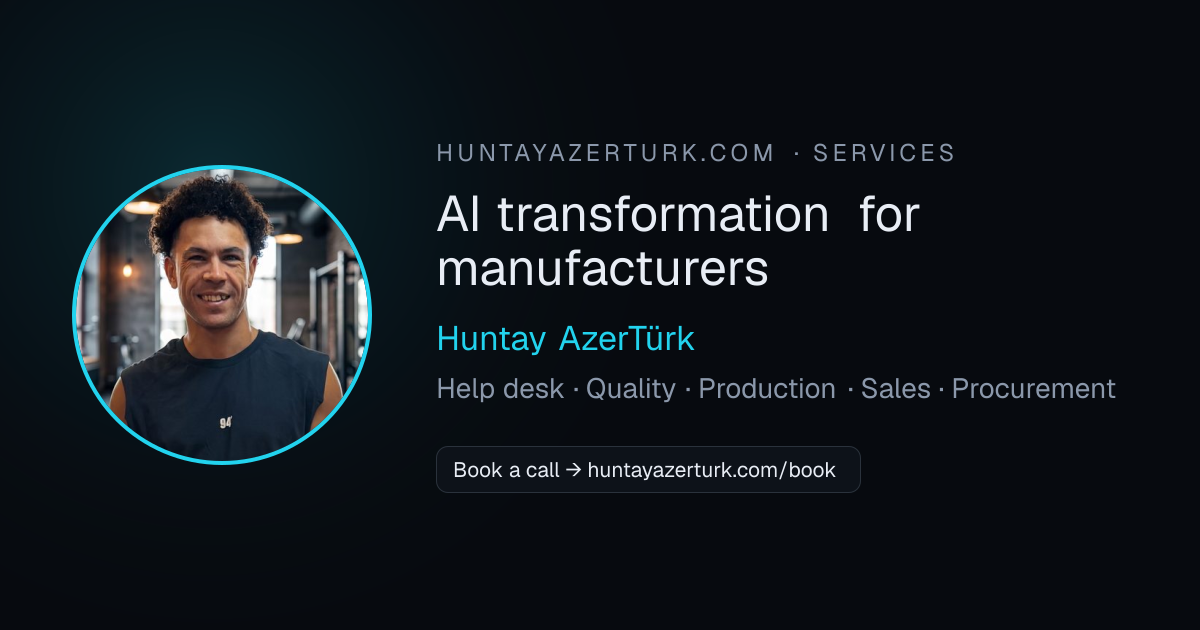
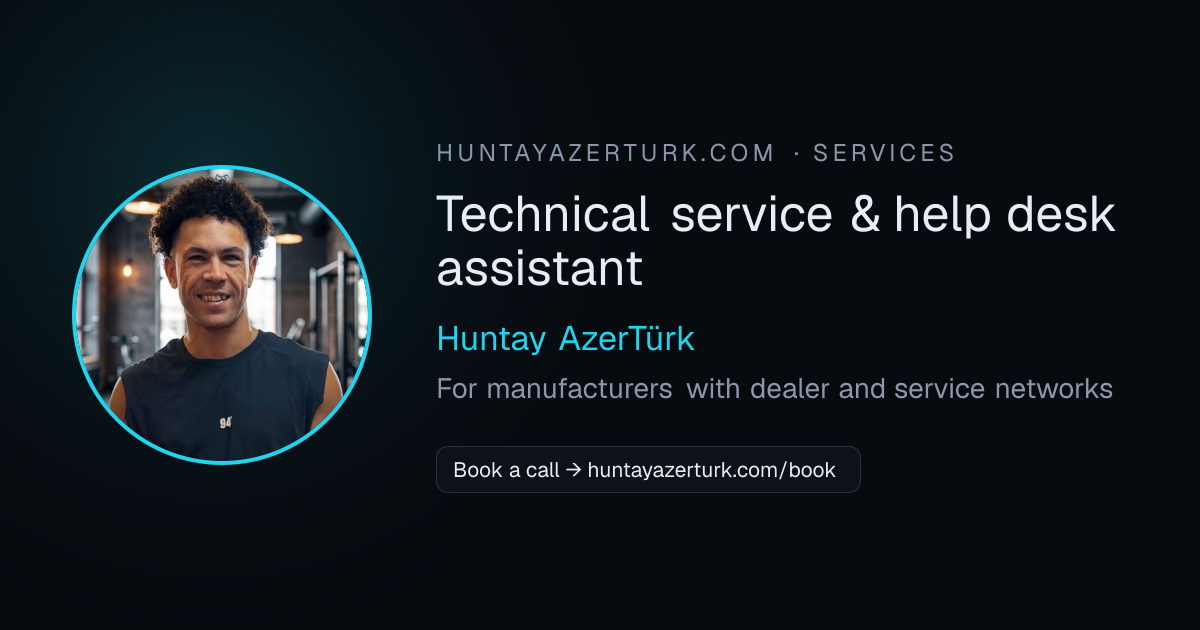
Oranlar her yerde tek set: %30–70, %15–40, %10–30
Huntay: sitede ve başka yerlerde oranlar aynı olmalı; esas set vakadaki: help desk iş yükü ve yanıt
süreleri %30–70, müşteri memnuniyeti %15–40, maliyet ve satışlar %10–30. "%40–70 talep çözüm süresi"
her yerden kalktı: giriş metni, meta açıklama, rakam kutuları (dördüncü kutu: maliyet ve satış %10–30),
"Nasıl çalışıyoruz" kanıt satırı, Hakkımda, help desk birimi, hizmet SSS'si, deneyim kaydı.
MCP get_profile öne çıkanları (yalnız metin; "3 mühendisle 100.000 kullanıcı" da çıktı) ve paylaşım
görselleri (ana sayfa çipleri, hizmetler kartı tek odağa göre) yeniden üretildi.

Claude-Session: https://claude.ai/code/session_01MxbAo2gi8kHvnns2pE8MrG

Changed region(s): [[0.37, 0.3016, 0.925, 0.4524], [0.37, 0.6032, 0.925, 0.6333]]

diff --git a/data/profile.ts b/data/profile.ts
@@ -6,8 +6,8 @@ import type { Localized } from "./types";
  */
 export const heroLead: Localized = {
   // 11 Kasım 2026: LinkedIn "Hakkında" ile aynı yapı — kanıt ayrı cümle, sonra uzmanlık; bulut/IoT rakamları buradan çıktı (odak dağılmasın).
-  en: "Across different projects, support resolution time dropped by 40–70%. Every engagement is led by me personally: with 13+ years in systems architecture, I turn manufacturers' scattered documentation and service knowledge into stable AI systems, without replacing your ERP or service software.",
-  tr: "Farklı projelerde talep çözüm süresi %40–70 kısaldı. İşi bizzat ben yürütüyorum: 13 yılı aşkın sistem mimarisi deneyimiyle, üreticilerin dağınık doküman ve servis bilgisini ERP ve servis yazılımlarınızı değiştirmeden kararlı yapay zekâ sistemlerine dönüştürüyorum.",
+  en: "Across different projects, help desk workload and response times improved by 30–70%. Every engagement is led by me personally: with 13+ years in systems architecture, I turn manufacturers' scattered documentation and service knowledge into stable AI systems, without replacing your ERP or service software.",
+  tr: "Farklı projelerde help desk iş yükü ve yanıt süreleri %30–70 iyileşti. İşi bizzat ben yürütüyorum: 13 yılı aşkın sistem mimarisi deneyimiyle, üreticilerin dağınık doküman ve servis bilgisini ERP ve servis yazılımlarınızı değiştirmeden kararlı yapay zekâ sistemlerine dönüştürüyorum.",
 };
 
 export const philosophy: Localized = {
@@ -28,8 +28,8 @@ export const aboutSecurity: Localized = {
 
 /** CV — RAG, Dialogflow CX, Meta WhatsApp; LinkedIn özetinde Chatwoot */
 export const aboutAiProject: Localized = {
-  en: "I've built autonomous support systems using Meta WhatsApp, Chatwoot, and Dialogflow CX. By integrating RAG architectures, we cut resolution times for complex technical requests by 40–70% across different projects.",
-  tr: "Meta WhatsApp, Chatwoot ve Dialogflow CX kullanarak otonom destek sistemleri geliştirdim. RAG mimarilerini entegre ederek, karmaşık teknik sorunların çözüm süresini farklı projelerde %40–70 arasında kısalttık.",
+  en: "I've built autonomous support systems using Meta WhatsApp, Chatwoot, and Dialogflow CX. By integrating RAG architectures, we improved help desk workload and response times by 30–70% and customer satisfaction by 15–40% across different projects.",
+  tr: "Meta WhatsApp, Chatwoot ve Dialogflow CX kullanarak otonom destek sistemleri geliştirdim. RAG mimarilerini entegre ederek farklı projelerde help desk iş yükünü ve yanıt sürelerini %30–70, müşteri memnuniyetini %15–40 iyileştirdik.",
 };
 
 export const aboutDiscipline: Localized = {

diff --git a/data/services.ts b/data/services.ts
@@ -9,7 +9,7 @@ import type { FaqItem, ServiceItem, StepItem } from "./types";
  * derinlemesine alt sayfaları (deep-dive). Kaldırılan eski hizmet adresleri ve MCP'nin donmuş slug listesi
  * data/catalog.ts'deki uyumluluk katmanında yeni sayfalara eşlenir — bir hizmeti silerken oraya da bakın.
  *
- * Sayılar (75%, 40–70%, 10.000+ ...) yalnızca sitede zaten yer alan vaka çalışmalarından alınmıştır.
+ * Sayılar (75%, 30–70%, 10.000+ ...) yalnızca sitede zaten yer alan vaka çalışmalarından alınmıştır.
  */
 export const services: ServiceItem[] = [
   /* ------------------------------------------------------------------ */
@@ -163,8 +163,8 @@ export const services: ServiceItem[] = [
           tr: "Yapay zeka ajanı destek ekibimin yerini mi alır?",
         },
         answer: {
-          en: "No. It handles repetitive questions and routes complex or sensitive cases to people with full context. In different projects, this approach cut ticket resolution time by 40–70%.",
-          tr: "Hayır. Tekrarlayan soruları üstlenir, karmaşık veya hassas durumları tüm bağlamıyla insanlara aktarır. Farklı projelerde bu yaklaşım talep çözüm süresini %40–70 arasında kısalttı.",
+          en: "No. It handles repetitive questions and routes complex or sensitive cases to people with full context. In different projects, this approach improved help desk workload and response times by 30–70%.",
+          tr: "Hayır. Tekrarlayan soruları üstlenir, karmaşık veya hassas durumları tüm bağlamıyla insanlara aktarır. Farklı projelerde bu yaklaşımla help desk iş yükü ve yanıt süreleri %30–70 iyileşti.",
         },
       },
       {

diff --git a/lib/og-cards.ts b/lib/og-cards.ts
@@ -29,12 +29,12 @@ const home = {
   en: {
     subtitle: "AI Consultant for Manufacturers",
     tagline: "Starts with the technical service & help desk assistant · Istanbul",
-    chips: ["13+ years", "40–70% faster support resolution", "100,000 users, 3 engineers"],
+    chips: ["30–70% help desk workload & response", "15–40% customer satisfaction", "10–30% costs & sales"],
   },
   tr: {
     subtitle: "Üreticiler için Yapay Zekâ Danışmanı",
     tagline: "Teknik servis ve help desk asistanıyla başlar · İstanbul",
-    chips: ["13+ yıl", "Destek çözümünde %40–70 hız", "3 mühendisle 100.000 kullanıcı"],
+    chips: ["Help desk iş yükü ve yanıtta %30–70", "Memnuniyette %15–40", "Maliyet ve satışta %10–30"],
   },
 } as const;
 
@@ -44,9 +44,9 @@ export function ogCardFor(key: string, lang: OgLang): OgCard {
   if (key === "services") {
     return {
       kicker: tr ? "HUNTAYAZERTURK.COM · HİZMETLER" : "HUNTAYAZERTURK.COM · SERVICES",
-      title: tr ? "Üreticiler için yapay zekâ dönüşümü" : "AI transformation for manufacturers",
+      title: tr ? "Teknik servis ve help desk asistanı" : "Technical service & help desk assistant",
       subtitle: "Huntay AzerTürk",
-      tagline: tr ? "Help desk · Kalite · Üretim · Satış · Satın alma" : "Help desk · Quality · Production · Sales · Procurement",
+      tagline: tr ? "Bayi ve servis ağı olan üreticiler için" : "For manufacturers with dealer and service networks",
       chips: [bookChip],
     };
   }

diff --git a/data/ai-units.ts b/data/ai-units.ts
@@ -33,8 +33,8 @@ export const aiUnits: AiUnit[] = [
     icon: "headset",
     title: { en: "Technical service & help desk assistant", tr: "Teknik servis ve help desk asistanı" },
     body: {
-      en: "Answers fault, installation and usage questions from dealers, technicians and users from your own manuals, and opens a ticket and hands over to your team when needed. Our starting point: across different projects, resolution time dropped by 40–70%.",
-      tr: "Bayilerin, teknisyenlerin ve kullanıcıların arıza, kurulum ve kullanım sorularını kendi kılavuzlarınızla otomatik yanıtlar; gerekince arıza kaydı açıp ekibinize devreder. Başlangıç noktamız: farklı projelerde talep çözüm süresi %40–70 kısaldı.",
+      en: "Answers fault, installation and usage questions from dealers, technicians and users from your own manuals, and opens a ticket and hands over to your team when needed. Across different projects, help desk workload and response times improved by 30–70%.",
+      tr: "Bayilerin, teknisyenlerin ve kullanıcıların arıza, kurulum ve kullanım sorularını kendi kılavuzlarınızla otomatik yanıtlar; gerekince arıza kaydı açıp ekibinize devreder. Farklı projelerde help desk iş yükü ve yanıt süreleri %30–70 iyileşti.",
     },
   },
   {

diff --git a/lib/mcp/server.ts b/lib/mcp/server.ts
@@ -59,16 +59,16 @@ const headline: Record<Lang, string> = {
 const highlights: Record<Lang, string[]> = {
   // 11 Kasım 2026: yalnız içerik değişti (araç adları, açıklamaları ve şemalar donuk — dizin incelemeleri sürüyor).
   en: [
-    "AI support agents: 40–70% faster resolution across projects",
+    "Help desk workload and response times improved by 30–70% across projects",
     "Technical service and help desk assistants for manufacturers with dealer and service networks",
-    "AI support system handling a 100,000-user load with 3 engineers",
+    "Customer satisfaction up 15–40%; costs and sales improved by 10–30%",
     "13+ years in software architecture",
     "English & Turkish",
   ],
   tr: [
-    "Yapay zekâ destek asistanları: projelere göre %40–70 daha hızlı çözüm",
+    "Help desk iş yükü ve yanıt sürelerinde projelere göre %30–70 iyileşme",
     "Bayi ve servis ağı olan üreticiler için teknik servis ve help desk asistanları",
-    "3 mühendisle 100.000 kullanıcılı yükü taşıyan yapay zekâ destek sistemi",
+    "Müşteri memnuniyetinde %15–40, maliyet ve satışta %10–30 iyileşme",
     "13+ yıl yazılım mimarisi",
     "Türkçe ve İngilizce",
   ],

diff --git a/data/experience.ts b/data/experience.ts
@@ -27,8 +27,8 @@ export const experience: TimelineEntry[] = [
         tr: "Karmaşık karar verme süreçleri (chain of thought, looping, branching) için LangChain ve LangGraph kullanarak 'Agentic' bir destek sistemi tasarladım; Python tabanlı vektör veritabanlarıyla (RAG) güçlendirdim."
       },
       {
-        en: "Later integrated this autonomous architecture into GCP with Dialogflow CX, Chatwoot, and Meta WhatsApp, cutting ticket resolution time by 40–70% across different projects.",
-        tr: "Bu otonom mimariyi daha sonra GCP üzerinde Dialogflow CX, Chatwoot ve Meta WhatsApp ile entegre ederek talep çözüm sürelerini farklı projelerde %40–70 arasında kısalttım."
+        en: "Later integrated this autonomous architecture into GCP with Dialogflow CX, Chatwoot, and Meta WhatsApp, improving help desk workload and response times by 30–70% across different projects.",
+        tr: "Bu otonom mimariyi daha sonra GCP üzerinde Dialogflow CX, Chatwoot ve Meta WhatsApp ile entegre ederek farklı projelerde help desk iş yükünü ve yanıt sürelerini %30–70 iyileştirdim."
       },
       {
         en: "Future projection: migrating ERP data to BigQuery for AI agent swarms.",

diff --git a/data/metrics.ts b/data/metrics.ts
@@ -6,13 +6,14 @@ import type { MetricItem } from "./types";
  */
 export const metrics: MetricItem[] = [
   {
+    // 11 Kasım 2026, Huntay: oranlar her yerde aynı set — iş yükü/yanıt süreleri %30–70, memnuniyet %15–40, maliyet/satış %10–30.
     id: "ai",
     value: 70,
-    rangeFrom: 40,
+    rangeFrom: 30,
     suffix: "%",
     label: {
-      en: "Faster support ticket resolution with AI (across projects)",
-      tr: "Yapay zekâyla daha hızlı destek talebi çözümü (projelere göre)",
+      en: "Improvement in help desk workload and response times (across projects)",
+      tr: "Help desk iş yükünde ve yanıt sürelerinde iyileşme (projelere göre)",
     },
   },
   {
@@ -24,6 +25,16 @@ export const metrics: MetricItem[] = [
     label: {
       en: "Increase in customer satisfaction (across projects)",
       tr: "Müşteri memnuniyetinde artış (projelere göre)",
+    },
+  },
+  {
+    id: "costs-sales",
+    value: 30,
+    rangeFrom: 10,
+    suffix: "%",
+    label: {
+      en: "Improvement in costs and sales (across projects)",
+      tr: "Maliyet ve satışlarda iyileşme (projelere göre)",
     },
   },
   {

diff --git a/components/sections/metrics.tsx b/components/sections/metrics.tsx
@@ -13,7 +13,7 @@ export async function Metrics() {
           {t("title")}
         </h2>
         <p className="mt-2 text-muted-foreground">{t("subtitle")}</p>
-        <div className="mt-12 grid gap-6 sm:grid-cols-3">
+        <div className="mt-12 grid gap-6 sm:grid-cols-2 lg:grid-cols-4">
           {siteMetrics.map((m) => (
             <div
               key={m.id}
